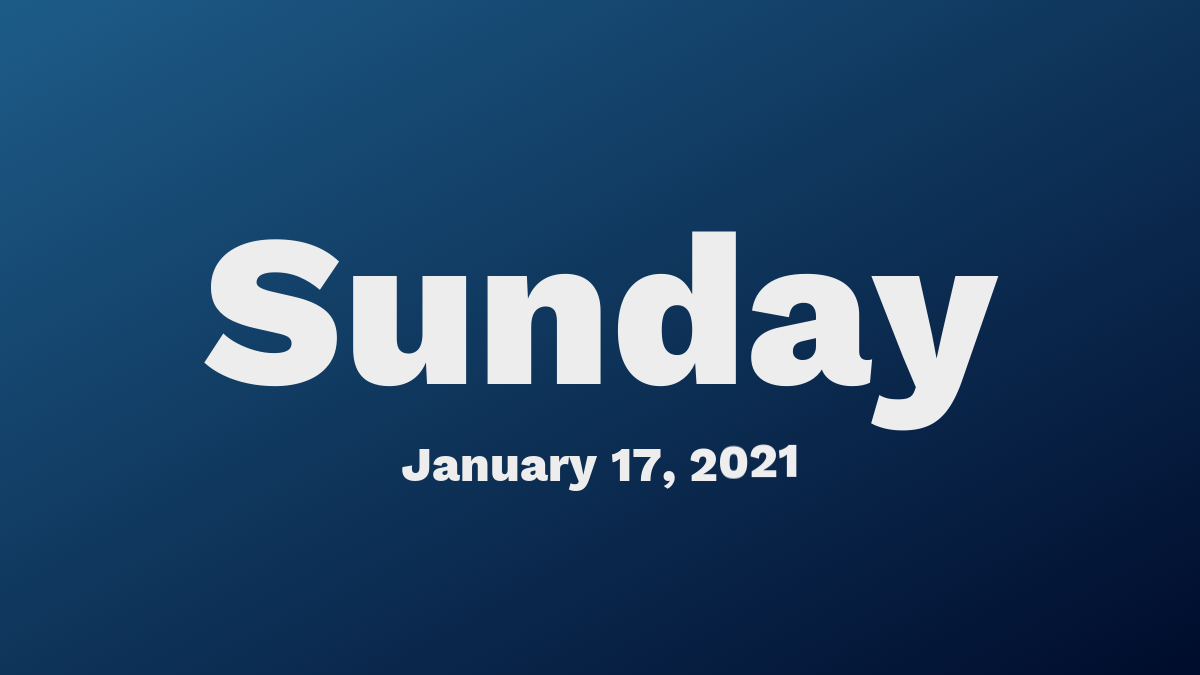
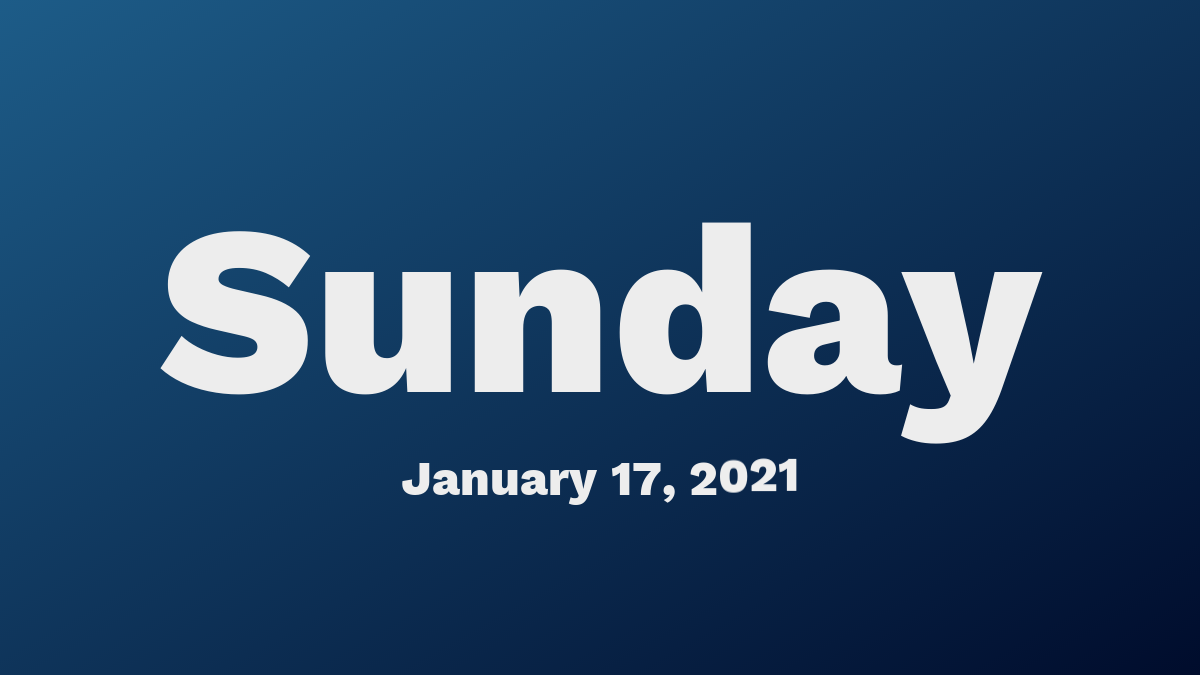
deploy: 6b5896df20485818374037a5643d9b68e7028a03

Changed region(s): [[0.1233, 0.3111, 0.8633, 0.6844], [0.3392, 0.6533, 0.6783, 0.7467]]

diff --git a/index.html b/index.html
@@ -36,7 +36,7 @@
     }
     .today {
       color: #eee;
-      font-size: 20vw;
+      font-size: 18vw;
       padding: 0 1vw;
       font-weight: bold;
       overflow: hidden;
